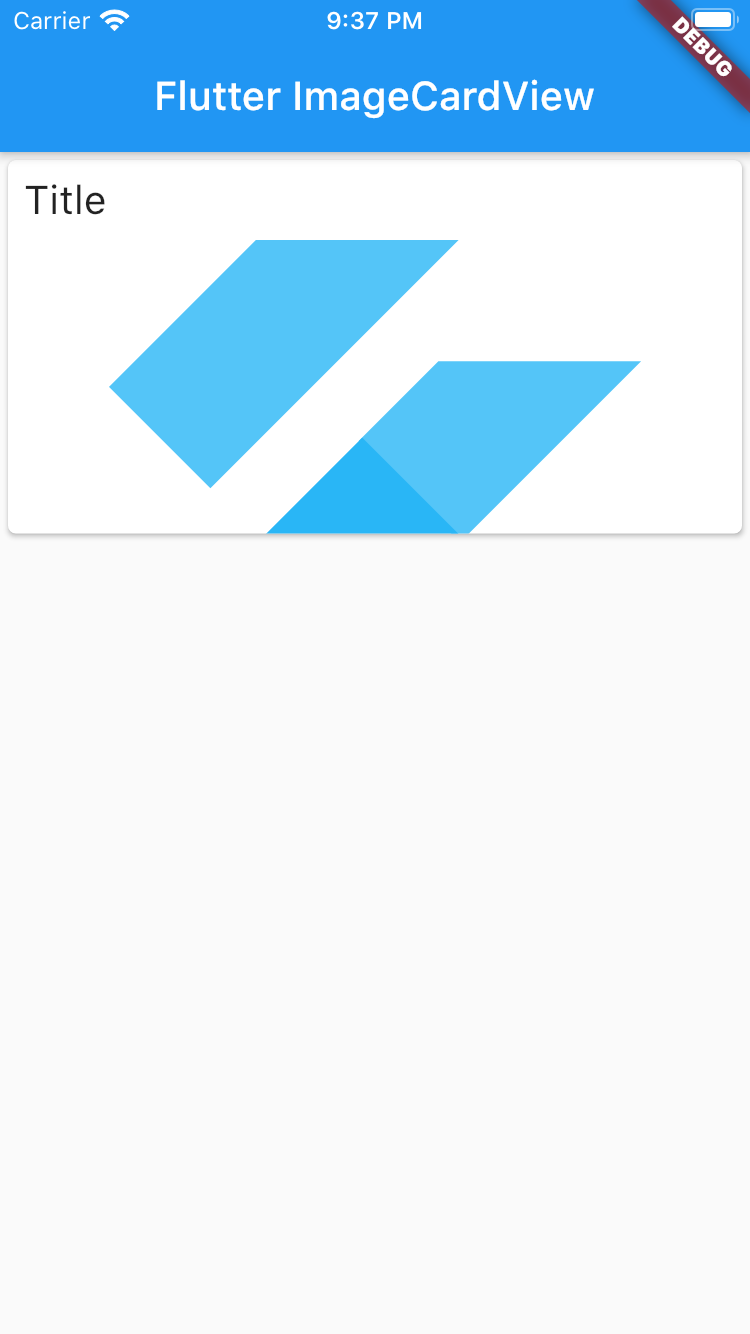
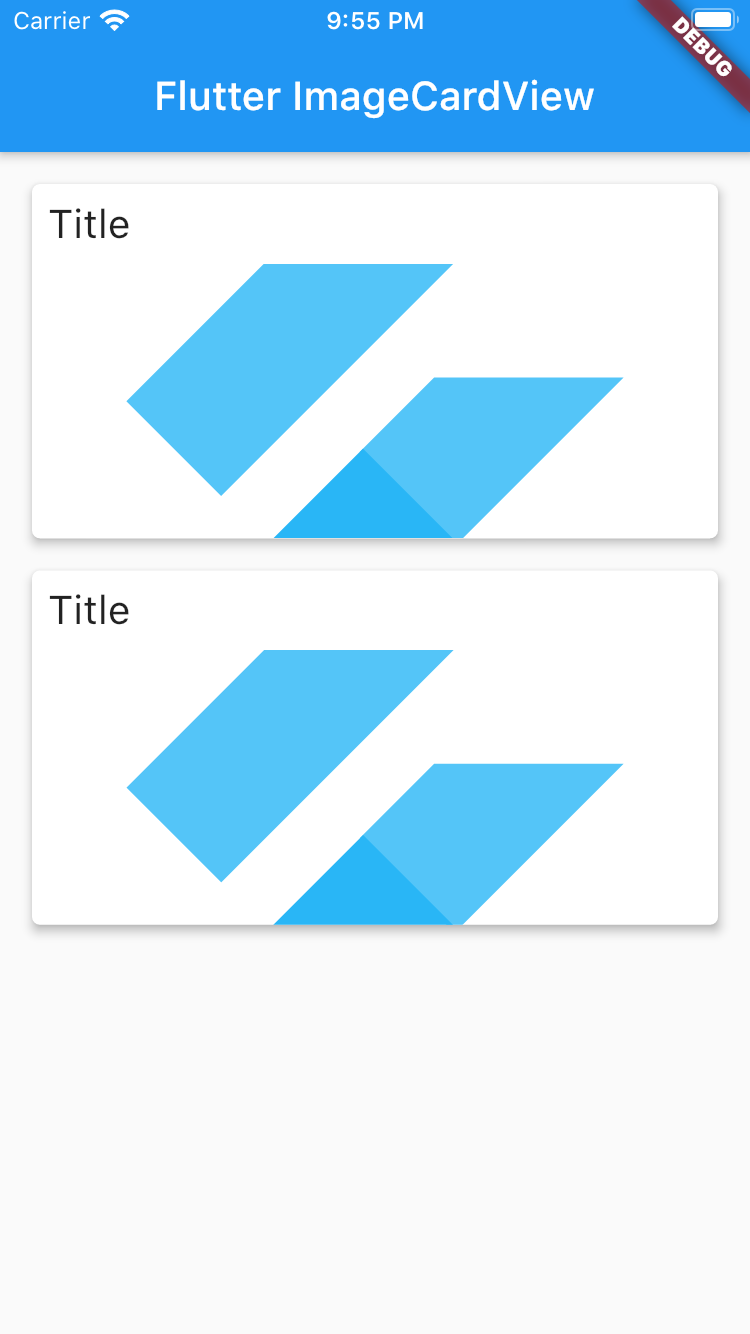
Clean up UI

diff --git a/lib/main.dart b/lib/main.dart
@@ -69,6 +69,7 @@ class _MyHomePageState extends State<MyHomePage> {
       body: Container(
         // Center is a layout widget. It takes a single child and positions it
         // in the middle of the parent.
+        padding: EdgeInsets.all(8),
         child: Column(
           // Column is also a layout widget. It takes a list of children and
           // arranges them vertically. By default, it sizes itself to fit its
@@ -88,6 +89,7 @@ class _MyHomePageState extends State<MyHomePage> {
           crossAxisAlignment: CrossAxisAlignment.start,
           mainAxisSize: MainAxisSize.min,
           children: <Widget>[
+            ImageCardWidget(),
             ImageCardWidget(),
           ],
         ),

diff --git a/lib/widgets/ImageCardWidget.dart b/lib/widgets/ImageCardWidget.dart
@@ -5,7 +5,8 @@ class ImageCardWidget extends StatelessWidget {
   Widget build(BuildContext context) {
     return Card(
         clipBehavior: Clip.antiAlias,
-        elevation: 2,
+        elevation: 4,
+          margin: EdgeInsets.all(8),
           child: Column (
             crossAxisAlignment: CrossAxisAlignment.start,
             mainAxisSize: MainAxisSize.min,
